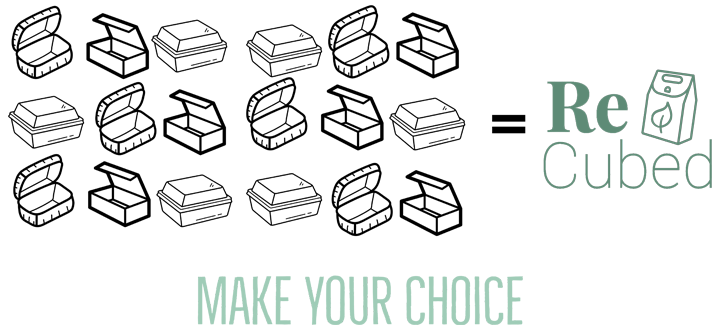
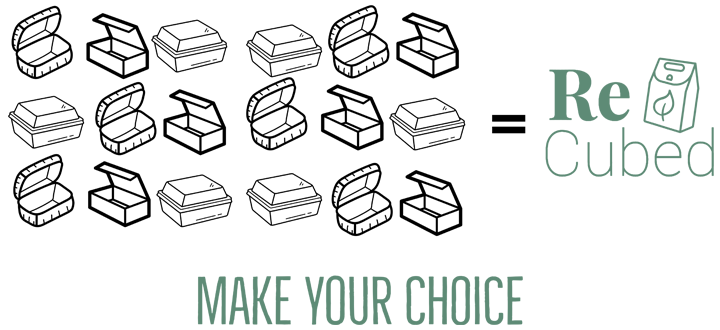
Updated content and changed font

Changed region(s): [[0.7333, 0.1515, 1.0, 0.5758], [0.4278, 0.8182, 0.7333, 1.0], [0.275, 0.8182, 0.4278, 1.0]]

diff --git a/index.html b/index.html
@@ -17,6 +17,7 @@
         <link href="https://cdnjs.cloudflare.com/ajax/libs/magnific-popup.js/1.1.0/magnific-popup.min.css" rel="stylesheet" />
         <!-- Core theme CSS (includes Bootstrap)-->
         <link href="css/styles.css" rel="stylesheet" />
+        <link href="https://fonts.googleapis.com/css2?family=Bebas+Neue&display=swap" rel="stylesheet">
     </head>
     <body id="page-top">
         <!-- Navigation-->
@@ -69,37 +70,41 @@
             </div>
         </section>
         <!-- Services-->
-        <section class="page-section" id="services">
+        <section class="page-section pb-0" id="services">
             <div class="container mx-auto">
-                <h2 class="text-center new-text-color">Our idea</h2>
+                <h2 class="text-center new-text-color">ReCubed gives you a choice</h2>
                 <hr class="divider light my-4" />
-                <div class="row justify-content-center">
+                <div class="row mb-5 justify-content-center">
                     <div class="col-md-12 col-lg-5 text-center">
                         <div class=" mt-5">
-                            <img src="assets/img/take-away.png" class="float-md-none float-left">
+                            <img src="assets/img/planet.png" class="float-md-none float-left">
                         </div>
                     </div>
                     <div class="col-md-12 col-lg-5 text-center mt-5">
                         <div class="text-muted mt-5 mb-6 text-center">
-                            <p> 
+                            <p class="image-text"> 
                                 The high amount of takeaway food consumed every year, naturally entails a high production of disposable packaging.
                             </p>
                         </div>
                     </div>
                 </div>
-                <div class="row justify-content-center">
+                <div class="row mt-5 justify-content-center">
+                    <div class="col-md-12 col-lg-5 text-center mt-5">
+                        <div class="text-muted mt-3 mb-6 text-center">
+                            <p class="image-text mt-0"> 
+                                Through our platform, services, and containers, restaurants and customers can make ordering take away guilt-free, green, and sustainable.     
+                            </p>                   
+                        </div>
+                    </div>
                     <div class="col-md-12 col-lg-5 text-center">
                         <div class=" mt-5">
                             <img src="assets/img/ReCubedBoxValue.png" class="float-md-none float-lg-right content-image">
                         </div>
                     </div>
-                    <div class="col-md-12 col-lg-5 text-center mt-5">
-                        <div class="text-muted mt-5 mb-6 text-center">
-                            <p> 
-                                Through our platform, services, and containers, restaurants and customers can make ordering take away guilt-free, green, and sustainable.     
-                            </p>                   
-                        </div>
-                    </div>
+                <div class="row justify-content-center mt-5 pt-5">
+                    <script src="https://climateclock.world/widget-v2.js" async></script>
+                    <climate-clock />
+                </div>
                 </div>
             </div>
         </section>

diff --git a/css/styles.css b/css/styles.css
@@ -10169,3 +10169,8 @@ header.masthead h1 {
 .contact-link {
   width: max-content;
 }
+
+.image-text{
+  font-size: 30px;
+  font-family: 'Bebas Neue', cursive;
+}
